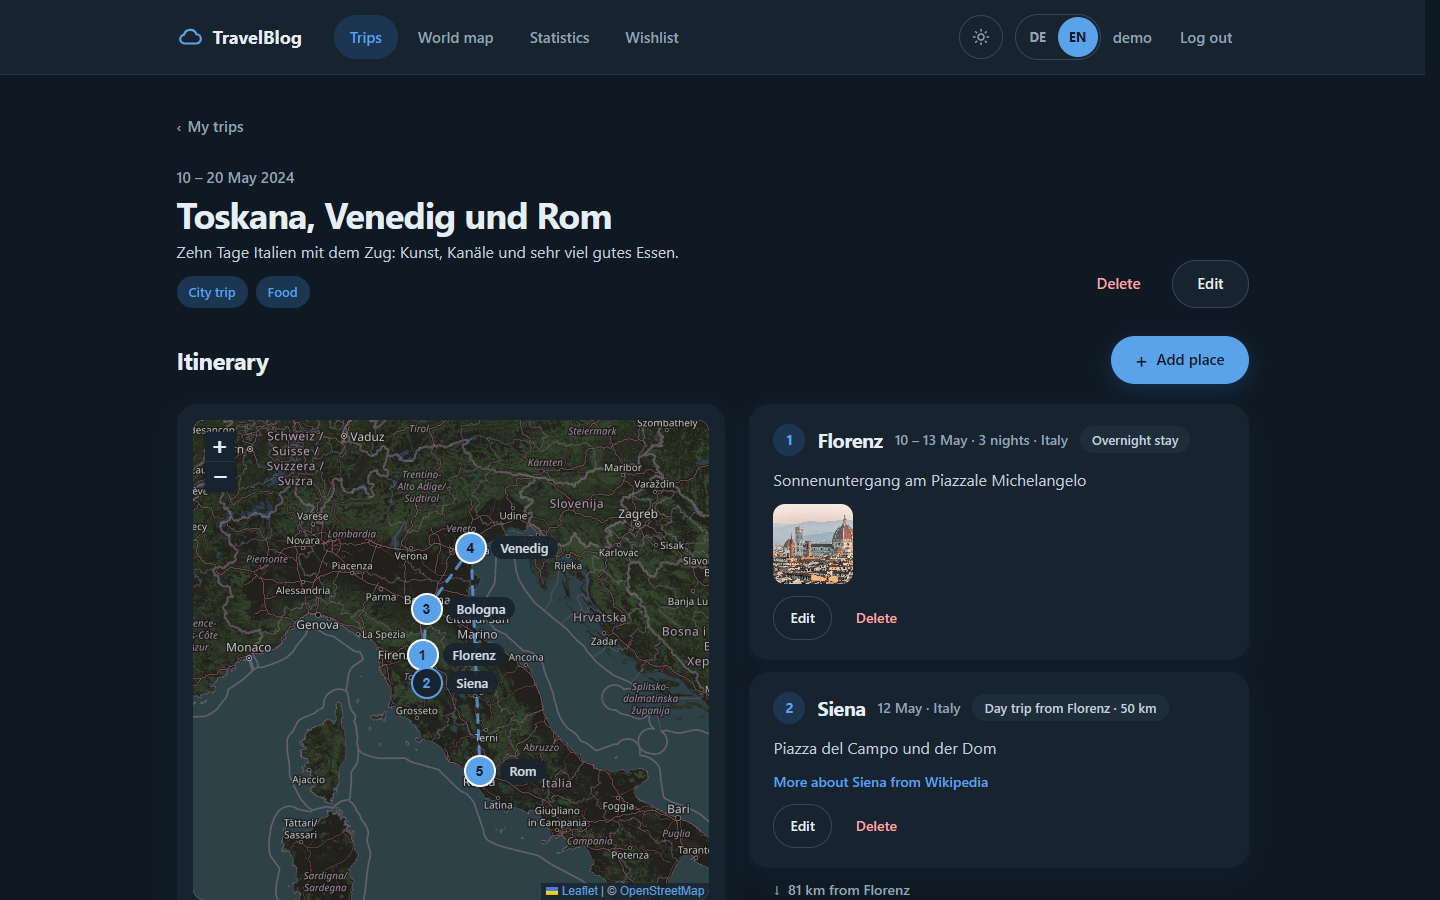
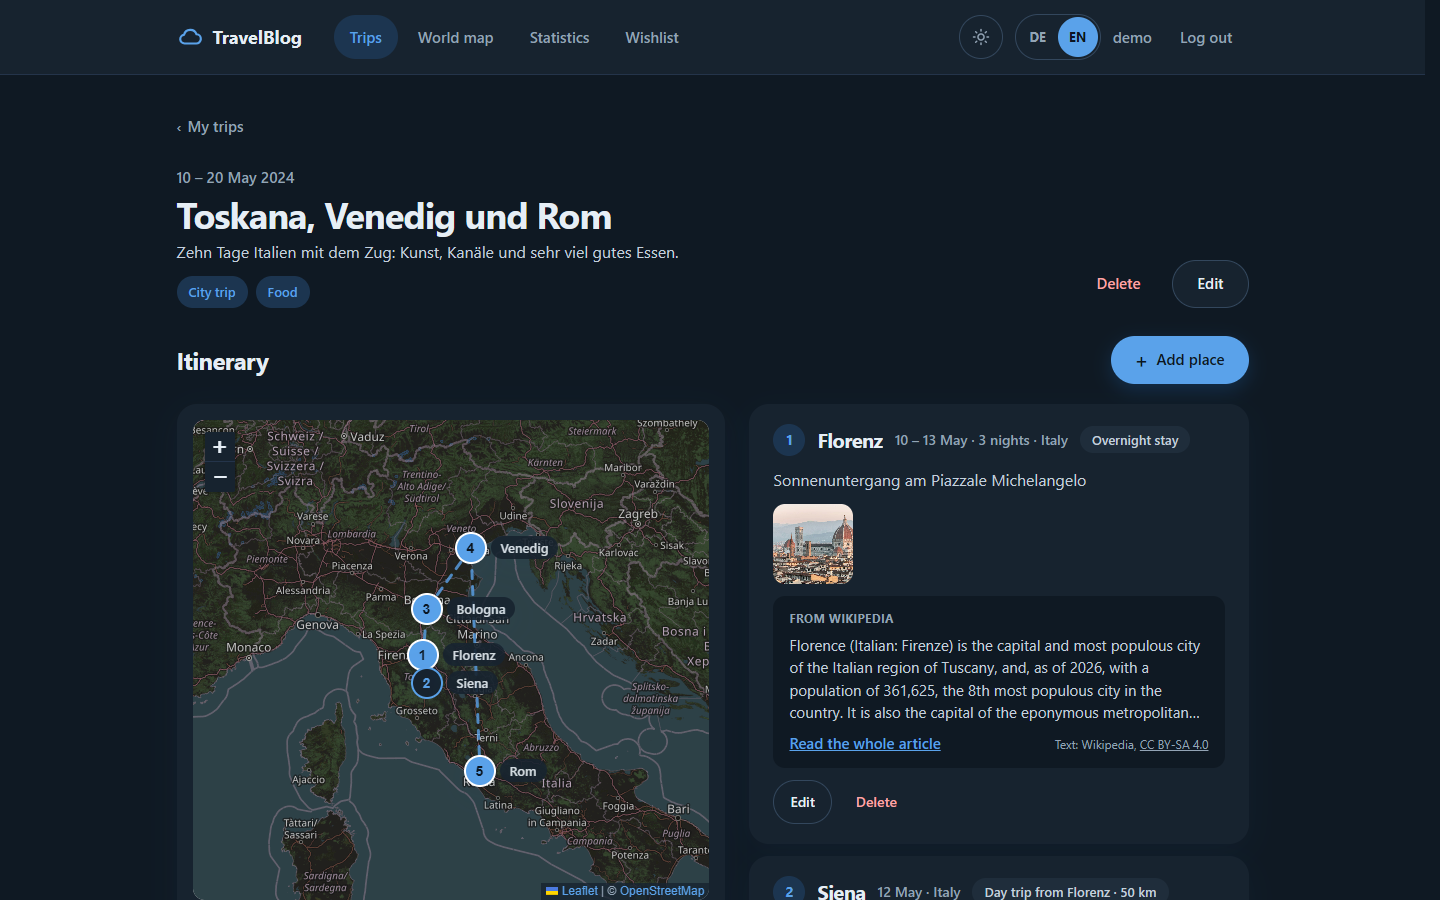
Describe languages, API docs, health check and dark mode in the README architecture

Changed region(s): [[0.5312, 0.6844, 0.8438, 0.9333], [0.5312, 0.9644, 0.8125, 1.0]]

diff --git a/README.md b/README.md
@@ -118,7 +118,8 @@ The screenshots show the English interface of the demo account.
 
 The backend and the built frontend run together in **one Docker container**. The browser loads the React app and
 calls the REST API on the same address, so there is no CORS setup. Every endpoint under `/api` requires a JWT, except
-registration and login.
+registration and login. Every request also carries the language of the user interface. The API documentation
+(Swagger UI) and the health check for Render are public.
 
 ```mermaid
 flowchart LR
@@ -127,6 +128,7 @@ flowchart LR
     subgraph render["Render · Docker container"]
         direction TB
         static["Static frontend<br/>index.html, JS, CSS"]
+        docs["Swagger UI · /swagger-ui.html<br/>Health check · /actuator/health"]
         subgraph api["Spring Boot REST API · /api"]
             direction TB
             security["Spring Security<br/>JwtFilter"]
@@ -147,11 +149,12 @@ flowchart LR
         direction TB
         osm["OpenStreetMap<br/>map tiles"]
         nominatim["Nominatim<br/>place search"]
-        wikipedia["Wikipedia<br/>summaries"]
+        wikipedia["Wikipedia<br/>summaries, German and English"]
     end
 
     user -- "pages" --> static
-    user -- "JSON + JWT" --> security
+    user -- "JSON + JWT + language" --> security
+    user -- "API docs" --> docs
     user -- "tiles" --> osm
     repos --> collections
     repos --> gridfs
@@ -161,7 +164,8 @@ flowchart LR
 
 The backend calls Nominatim and Wikipedia itself instead of the browser. That keeps the frontend simple, lets the
 backend shape the answers, and keeps the external base URLs in configuration (`application.properties`), where the
-tests can replace them.
+tests can replace them. The backend remembers Wikipedia's answers in memory and sends one request at a time, because
+Wikipedia slows down clients that send many requests in parallel.
 
 ### Backend layers
 
@@ -175,7 +179,8 @@ Each feature follows the same path: **Controller → Service → Repository**.
 | Model / DTO | `model`, `dto` | Java records: documents in the database, requests and responses of the API |
 
 Errors are turned into a uniform JSON answer (`ProblemDetail`) in one place, `GlobalExceptionHandler`, so the
-frontend can show field errors next to the right input.
+frontend can show field errors next to the right input. The texts come from `messages.properties` (German) or
+`messages_en.properties` (English), depending on the language of the request.
 
 ### Login with JWT
 
@@ -200,6 +205,33 @@ sequenceDiagram
 
 The backend stays stateless: no sessions, no CSRF tokens. On a `401` answer the frontend removes the token and opens
 the login page.
+
+### Languages
+
+The user interface is in German and English. The chosen language travels with every request, so the backend answers
+in the same language and asks the external services in it.
+
+```mermaid
+flowchart LR
+    switch(["DE | EN switch<br/>saved in the browser"])
+    texts["Frontend texts<br/>i18n/texts.ts"]
+    switch --> texts
+    switch -- "Accept-Language: en" --> api["Spring Boot API"]
+    api --> messages["Error messages<br/>messages_en.properties"]
+    api --> nominatim["Nominatim<br/>accept-language=en"]
+    api --> wiki["en.wikipedia.org"]
+    wiki -.->|"no article named Venedig"| dewiki["de.wikipedia.org<br/>link to the English article"]
+    dewiki -.->|"Venice"| wiki
+```
+
+- **Frontend:** all texts are in one file, German and English side by side (`cancel: {de: 'Abbrechen', en: 'Cancel'}`);
+  TypeScript reports a text with only one language. Dates, numbers, and country names use the browser's `Intl` API.
+- **Backend:** validation and error messages are keys that Spring looks up in `messages.properties` or
+  `messages_en.properties`. Without the header, or for another language, everything stays German.
+- **External services:** the place search returns names in the chosen language. A stop keeps the name it was saved
+  with, so for a German name like "Venedig" the backend follows the language link of the German Wikipedia article to
+  the English one, "Venice".
+- The user's own content (titles, notes, the demo trips) is not translated.
 
 ### Data model
 
@@ -262,6 +294,11 @@ GridFS, the MongoDB storage for files, with the owner in their metadata.
 
 The Vite dev server forwards `/api` to the backend, so the frontend uses the same relative URLs locally and in
 production.
+
+Colors come from theme tokens in `index.css` (e.g. `surface`, `ink`, `accent`), each with a light and a dark value.
+The sun / moon button puts the class `dark` on `<html>`, and every component changes with it, without dark mode code
+of its own. A small script in `index.html` sets the design before the first paint, so a dark page does not flash
+white.
 
 ### CI/CD pipeline
 
